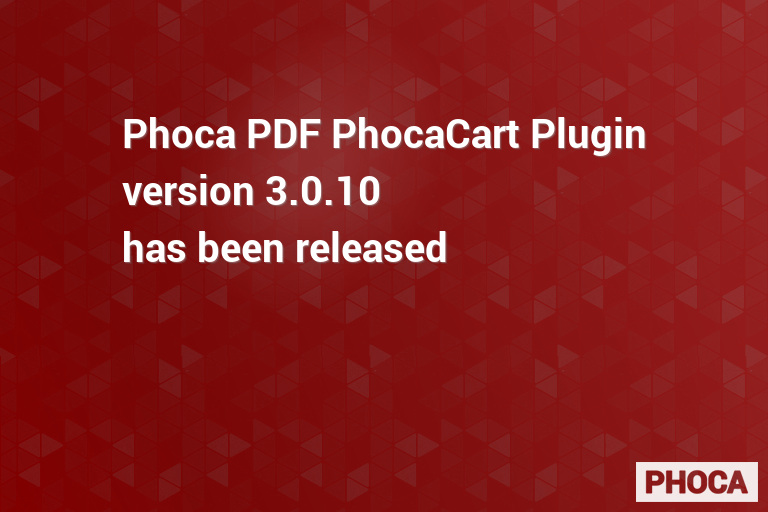
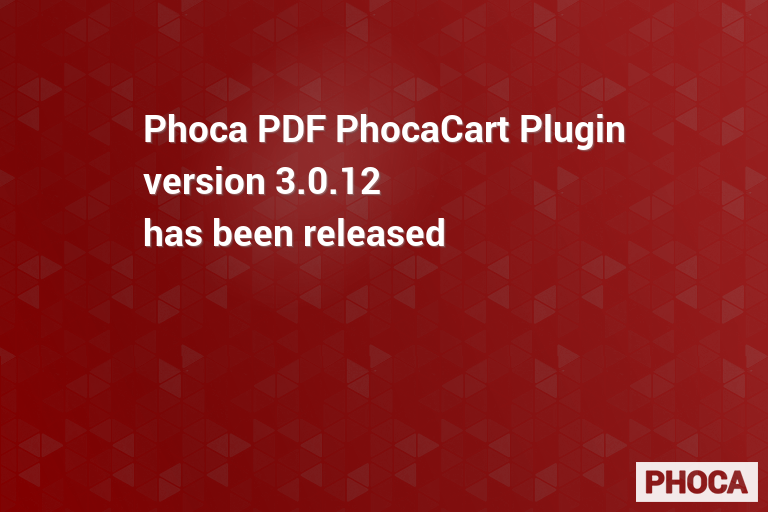
3.0.12
3.0.12

Changed region(s): [[0.1562, 0.2188, 0.8438, 0.5312]]

diff --git a/phocacart.php b/phocacart.php
@@ -105,6 +105,7 @@ class plgPhocaPDFPhocaCart extends JPlugin
 		}
 
 
+
 		// - - - - - - - - - - - - - - - -
 		// HEADER
 		if ($content->header_data != '') {
@@ -307,9 +308,12 @@ class PhocaPDFPhocaCartTCPDF extends TCPDF
 		$headerfont = $this->getHeaderFont();
 		$headerdata = $this->getHeaderData();
 
+
+
+
 		// The space must be copied directly from editor and the file must be saved as ANSI
 		//$headerdata = str_replace(utf8_encode("<p>�</p>"), '<p></p>', $headerdata);
-		$headerdata = str_replace(array(utf8_encode(chr(11)), utf8_encode(chr(160))), ' ', $headerdata);
+		$headerdata['string'] = str_replace(array(utf8_encode(chr(11)), utf8_encode(chr(160))), ' ', $headerdata['string']);
 
 		// Params
 		$spotColors 					= $this->getAllSpotColors();
@@ -337,12 +341,17 @@ class PhocaPDFPhocaCartTCPDF extends TCPDF
 		}
 
 		if ($params['header_display'] == 1) {
+
 			if (($headerdata['logo']) AND ($headerdata['logo'] != K_BLANK_IMAGE)) {
+
 				$this->Image(K_PATH_IMAGES.$headerdata['logo'], $this->GetX(), $this->getHeaderMargin(), $headerdata['logo_width']);
+
 				$imgy = $this->getImageRBY();
+
 			} else {
 				$imgy = $this->GetY();
 			}
+
 			$cell_height = round(($this->getCellHeightRatio() * $headerfont[2]) / $this->getScaleFactor(), 2);
 			// set starting margin for text data cell
 			if ($this->getRTL()) {

diff --git a/README.MD b/README.MD
@@ -2,7 +2,7 @@
 
 
 
-![Phoca PDF PhocaCart Plugin](https://github.com/PhocaCz/PhocaPDFPhocaCartPlugin/blob/master/phocacart.png)
+![Phoca PDF PhocaCart Plugin](https://github.com/PhocaCz/PhocaPDFPhocaCartPlugin/blob/master/phocacart.png?raw=true)
 
 # Phoca PDF PhocaCart Plugin
 
@@ -52,9 +52,13 @@ Phoca PDF PhocaCart plugin is Joomla! plugin which enables option to render PDF 
 
 
 
+
+
+
+
 ## Version
 
-3.0.10
+3.0.12
 
 
 

diff --git a/README.md b/README.md
@@ -2,7 +2,7 @@
 
 
 
-![Phoca PDF PhocaCart Plugin](https://github.com/PhocaCz/PhocaPDFPhocaCartPlugin/blob/master/phocacart.png)
+![Phoca PDF PhocaCart Plugin](https://github.com/PhocaCz/PhocaPDFPhocaCartPlugin/blob/master/phocacart.png?raw=true)
 
 # Phoca PDF PhocaCart Plugin
 
@@ -52,9 +52,13 @@ Phoca PDF PhocaCart plugin is Joomla! plugin which enables option to render PDF 
 
 
 
+
+
+
+
 ## Version
 
-3.0.10
+3.0.12
 
 
 
